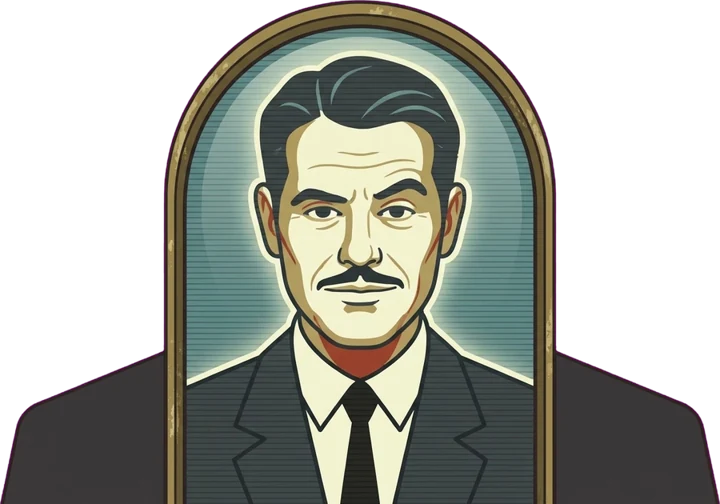
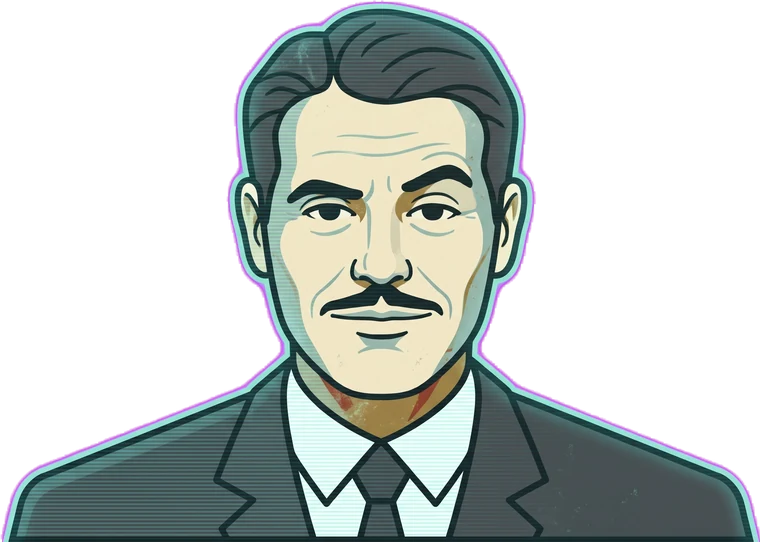
New Vegas face-card art for all 12 court cards and the Joker
Cut out of the magenta, trimmed and saved as compact WebP. Wide art (the Securitrons) sits in a narrower box so the corner index stays clear; the custom Joker sits between its two labels. What's new entry added.

Claude-Session: https://claude.ai/code/session_015y6det9vMUM2UL9HDZkaBe

diff --git a/js/state.js b/js/state.js
@@ -71,10 +71,10 @@ function cardHTML(c){
     const art=typeof ART!=='undefined'&&ART.legend[c.legend];
     if(art)return `<div class="card legend has-art lg-${L.rar}"><img class="lgart" src="${art}" alt=""><span class="lgn">${esc(L.name)}</span></div>`;
     return `<div class="card legend lg-${L.rar}"><span class="lgk">Legend</span><span class="lgn">${esc(L.name)}</span><span class="lgr">${L.rar}</span></div>`;}
-  if(c.rank==='JK')return `<div class="card joker${edCls(c)}"><span class="court jk"${FACE_FILE.JK?` style="background-image:url(${FACE_FILE.JK})"`:''}></span><span class="jkc t">JOKER</span><span class="jkc b">JOKER</span>${edFx(c)}</div>`;
+  if(c.rank==='JK')return `<div class="card joker${edCls(c)}"><span class="court jk${FACE_FILE.JK?' jkart':''}"${FACE_FILE.JK?` style="background-image:url(${FACE_FILE.JK})"`:''}></span><span class="jkc t">JOKER</span><span class="jkc b">JOKER</span>${edFx(c)}</div>`;
   const red=isRed(c.suit), s=SUIT_CH[c.suit], num=isNum(c);
   const md=c.mod&&typeof MODS!=='undefined'&&MODS[c.mod]?c.mod:null;
-  return `<div class="card s-${c.suit}${red?' red':''}${num?'':' face'}${md?' m-'+md:''}${edCls(c)}"><span class="r">${c.rank}<i>${suitIcon(c.suit)}</i></span>${num?`<span class="pip">${suitPip(c.suit)}</span>`:FACE_FILE[c.rank+c.suit]?`<span class="court img" style="--cf:url(${FACE_FILE[c.rank+c.suit]})"></span>`:`<span class="court" style="background-image:var(--court-${c.rank}-${red?'r':'b'})"></span>`}<span class="r2">${c.rank}<i>${suitIcon(c.suit)}</i></span>${md?`<span class="mod ${md}">${MODS[md].tag}</span>`:''}${edFx(c)}</div>`;
+  return `<div class="card s-${c.suit}${red?' red':''}${num?'':' face'}${md?' m-'+md:''}${edCls(c)}"><span class="r">${c.rank}<i>${suitIcon(c.suit)}</i></span>${num?`<span class="pip">${suitPip(c.suit)}</span>`:FACE_FILE[c.rank+c.suit]?`<span class="court img${FACE_WIDE[c.rank+c.suit]?' wide':''}" style="--cf:url(${FACE_FILE[c.rank+c.suit]})"></span>`:`<span class="court" style="background-image:var(--court-${c.rank}-${red?'r':'b'})"></span>`}<span class="r2">${c.rank}<i>${suitIcon(c.suit)}</i></span>${md?`<span class="mod ${md}">${MODS[md].tag}</span>`:''}${edFx(c)}</div>`;
 }
 // Suit symbols are drawn as worn, hand-inked shapes (see the sprite at the top of index.html), not text glyphs, so they look the same on every phone.
 // Your own symbols: drop spade, heart, diamond and club (.svg, .png or .webp, any shape on a transparent background) into suits/.
@@ -88,11 +88,11 @@ function loadSuitFiles(){
 const suitPip=s=>SUIT_ART[s]?`<img class="pipart" src="${SUIT_ART[s]}" alt="">`:suitIcon(s);
 // Your own face-card art: faces/KS.png, QH.png, JD.png ... (rank + suit letter) and faces/JK.png for the Joker. .webp works too.
 // Court art is one half-length figure cut off at the waist; the game draws it twice, the second turned upside down.
-const FACE_FILE={};
+const FACE_FILE={},FACE_WIDE={};
 function loadFaceFiles(){
   const ids=['JK'];for(const r of ['J','Q','K'])for(const s of SUITS)ids.push(r+s);
   for(const id of ids){const exts=['webp','png'];const tryExt=n=>{if(n>=exts.length)return;const im=new Image();
-    im.onload=()=>{FACE_FILE[id]=im.src;if(typeof meta!=='undefined'&&meta&&typeof render==='function')render();};im.onerror=()=>tryExt(n+1);im.src=`faces/${id}.${exts[n]}`;};tryExt(0);}
+    im.onload=()=>{FACE_FILE[id]=im.src;FACE_WIDE[id]=im.naturalWidth/im.naturalHeight>1.45;if(typeof meta!=='undefined'&&meta&&typeof render==='function')render();};im.onerror=()=>tryExt(n+1);im.src=`faces/${id}.${exts[n]}`;};tryExt(0);}
 }
 const suitIcon=s=>SUIT_FILE[s]?`<span class="sx img" aria-hidden="true" style="--m:url(${SUIT_FILE[s]})"></span>`:`<svg class="sx" viewBox="0 0 24 24" aria-hidden="true"><use href="#sx-${s}"/></svg>`;
 const capsHTML=n=>`<span class="pill num" data-capsval="${n}"><span class="cap"></span> <span class="cn">${n}</span> caps</span>`;

diff --git a/js/whatsnew.js b/js/whatsnew.js
@@ -1,6 +1,10 @@
 // "What's new": shown once on the first open after an update. To announce a release, add an entry at the TOP of
 // WHATS_NEW with a new id and a few short lines. Players who haven't seen that id get the card; brand-new players don't.
 const WHATS_NEW=[
+  {id:'2026-11-d',title:'A New Vegas deck',lines:[
+    'Every face card has its own New Vegas character now: Mr. House, Jane and Yes Man in Spades, Caesar, Lanius and Vulpes in Clubs, Doc Mitchell, Cass and Boone in Hearts, and the King, Sunny Smiles and Victor in Diamonds. Benny is the Joker.',
+    'New hand-inked atomic suit symbols on every card.',
+  ]},
   {id:'2026-11-c',title:'Currency cards',lines:[
     'The <b>Gilded</b> upgrade is now <b>Currency</b>, printed on green NCR banknote paper. It pays <b>1 NCR dollar</b> (once per table) when it’s in a caravan that sells, instead of caps, so it no longer duplicates Golden cards.',
   ]},

diff --git a/style.css b/style.css
@@ -910,3 +910,5 @@ ul.resl{text-align:left;display:inline-block;margin:0 auto 6px}
 .card .pip .pipart{display:block;width:calc(var(--cw)*.88);height:calc(var(--cw)*.88);object-fit:contain;filter:drop-shadow(0 1px 1px #0003)}
 /* face cards stack the rank over the suit, like a printed court card: a narrow column that keeps clear of the portrait */
 .card.face .r,.card.face .r2{flex-direction:column;gap:0;align-items:center;line-height:.95}
+.card .court.img.wide{left:21%;right:21%}  /* wide art (the Securitrons): narrower, so the corner index stays clear */
+.card.joker .court.jk.jkart{left:14%;right:14%;top:8%;bottom:8%;background-size:contain;background-position:center}  /* custom Joker art sits between the two JOKER labels */
